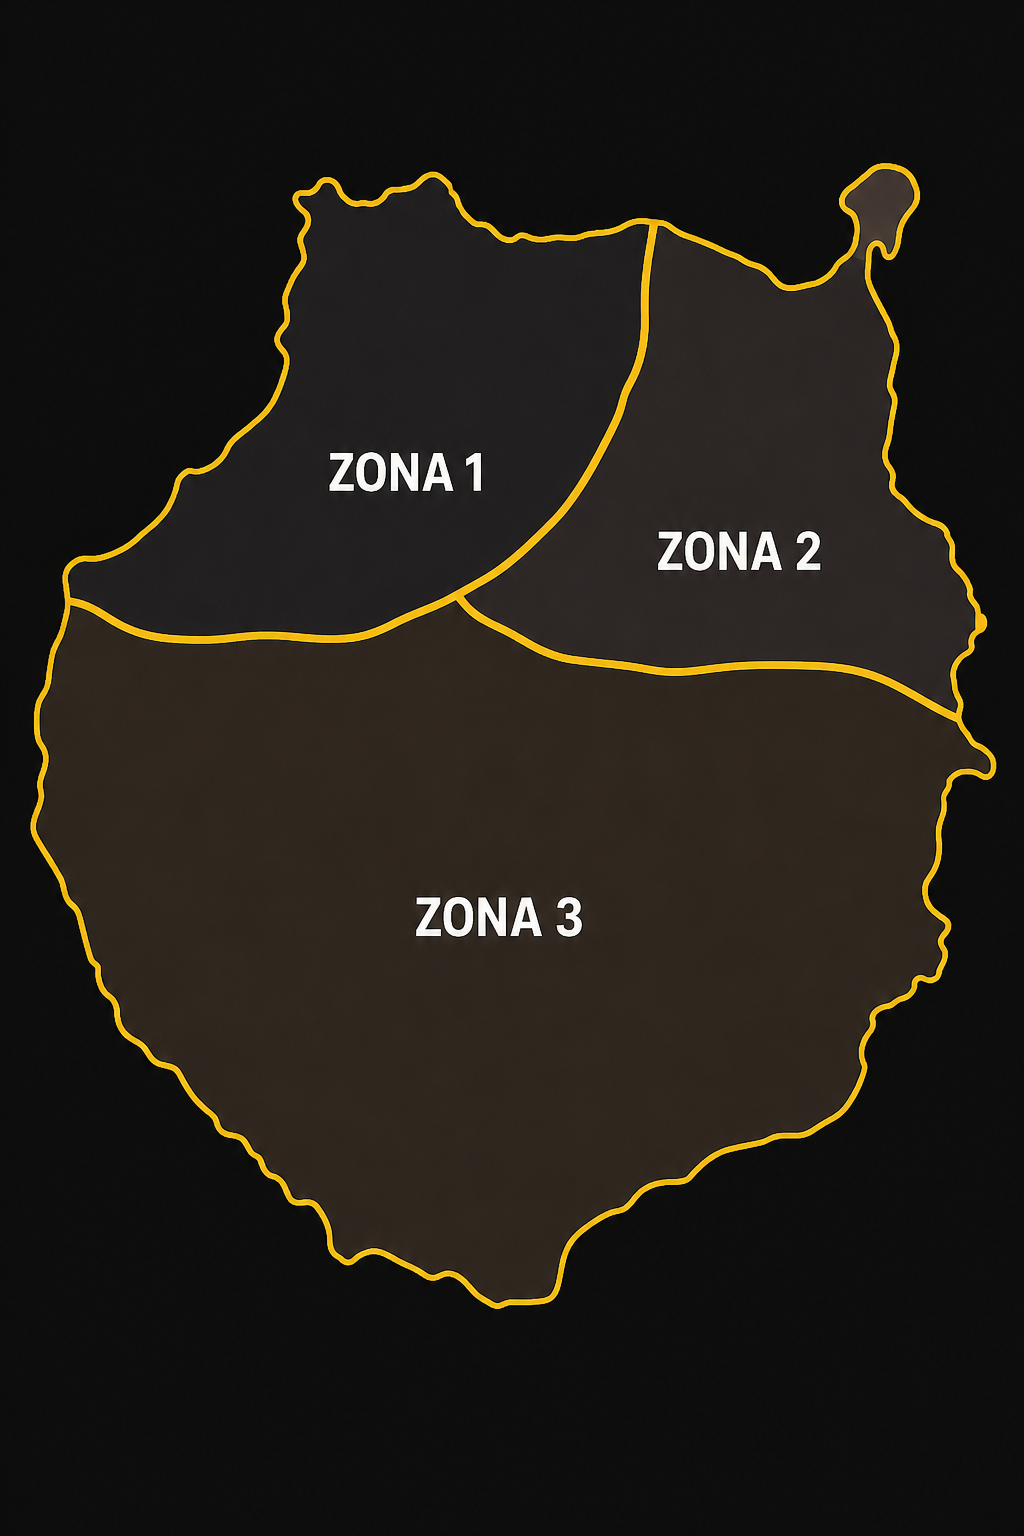
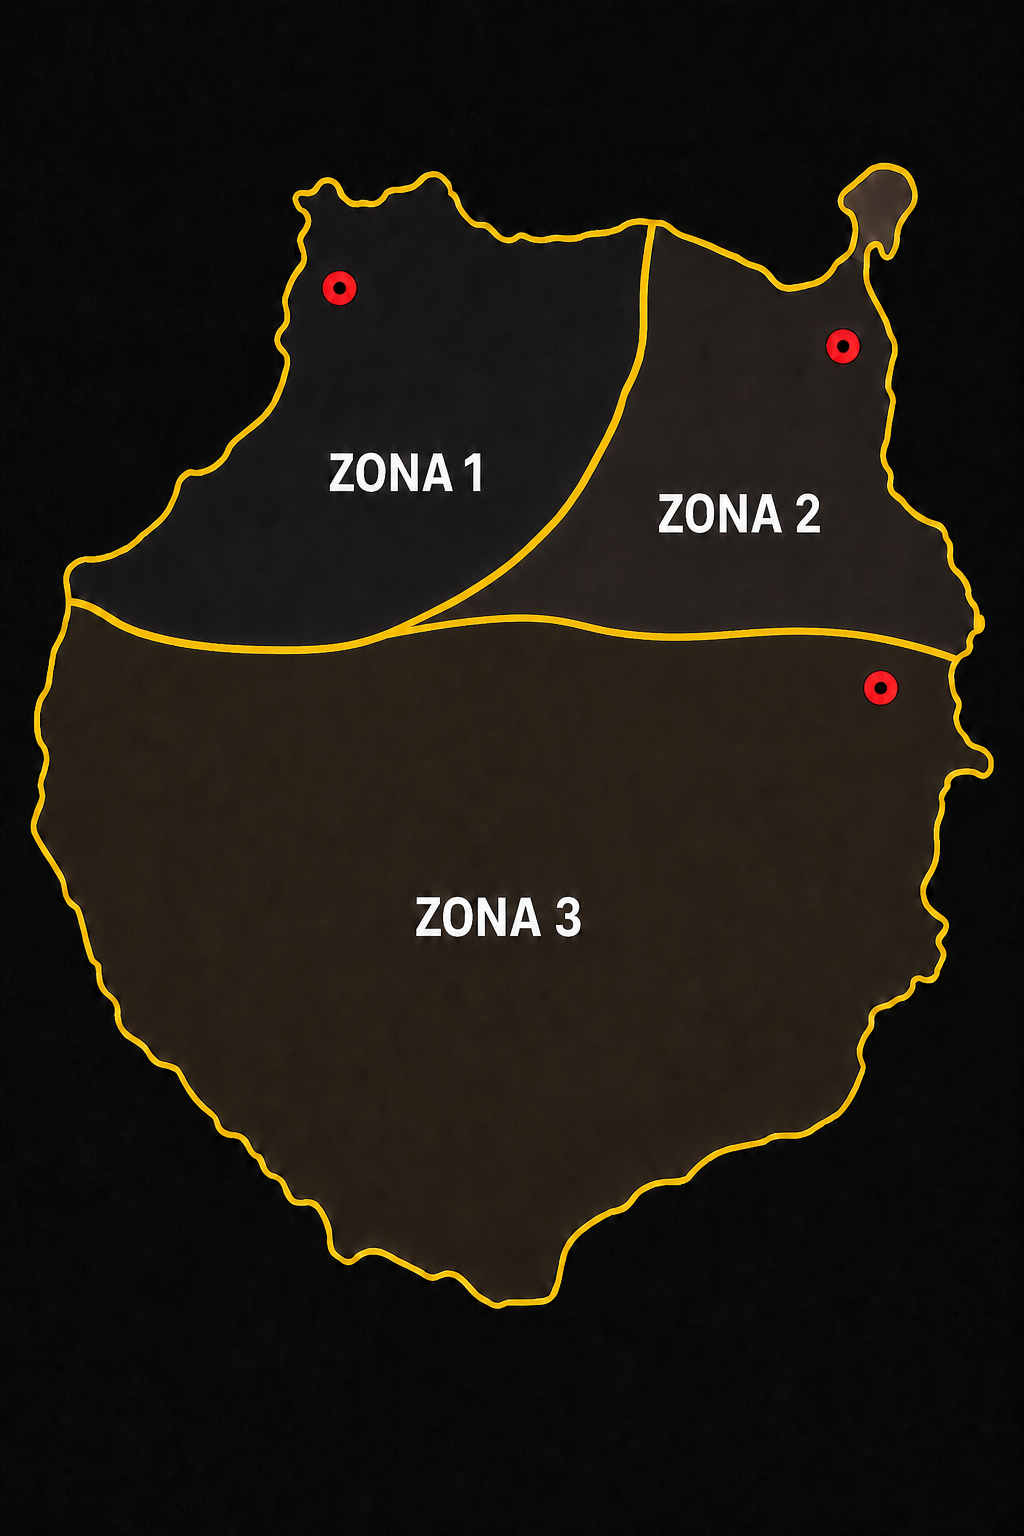
add files

diff --git a/lang/it/configurator.php b/lang/it/configurator.php
@@ -20,7 +20,9 @@ return [
         'postal_code' => 'CAP',
     ],
     'vehicle' => [
-        'missing_model' => 'Non trovi il tuo modello? Scrivici',
+        'missing' => 'Non incontri marca, anno o modello? Scrivici e te lo troviamo subito!',
+        'missing_model' => 'Non trovi il tuo modello? Scrivici e lo cercheremo per te.',
+        'missing_year' => 'Non trovi l\'anno della tua auto? Scrivici e lo cercheremo per te.',
         'image_unavailable' => 'Immagine non disponibile',
         'zoom' => 'Ingrandisci immagine veicolo',
         'all_years' => 'Tutti gli anni',
@@ -50,6 +52,8 @@ return [
     ],
     'installation' => [
         'intro' => 'Prima di confermare la compatibilità, ogni cliente deve completare un precheck dei connettori del veicolo.',
+        'external_intro' => 'Verifica la disponibilità per installare uno schermo acquistato da un altro venditore.',
+        'no_precheck_intro' => 'Verifica la disponibilità dell’installazione per i prodotti selezionati.',
         'question' => 'Qual è il tuo CAP?',
         'postal_placeholder' => 'Inserisci CAP',
         'check' => 'Verifica disponibilità',
@@ -57,7 +61,9 @@ return [
         'gran_canaria_only' => 'Per ora il precheck in presenza è disponibile solo a Gran Canaria:',
         'zone_step' => 'Passo 1 · Zona',
         'zone_question' => 'Quale zona preferisci?',
-        'zone_help' => 'Scegli la zona di riferimento sia per il precheck sia per l’installazione successiva. Il nome dell’officina non viene ancora mostrato.',
+        'zone_help' => 'Scegli la zona di riferimento sia per il precheck sia per l\'installazione successiva. Il nome dell\'officina non viene ancora mostrato.',
+        'external_zone_help' => 'Scegli la zona in cui desideri installare lo schermo. Il nome dell\'officina non viene ancora mostrato.',
+        'no_precheck_zone_help' => 'Scegli la zona in cui desideri effettuare l\'installazione. Il nome dell\'officina non viene ancora mostrato.',
         'map_label' => 'Mappa interattiva delle zone di servizio di Gran Canaria',
         'zone_north' => 'Zona nord · Gáldar e dintorni',
         'zone_capital' => 'Zona nord-est · Las Palmas e dintorni',
@@ -69,18 +75,23 @@ return [
         'precheck_question' => 'Come preferisci fare il precheck?',
         'precheck_help' => 'Dobbiamo verificare i connettori prima di spedire lo schermo, così da garantirne la compatibilità.',
         'precheck_self_title' => 'Smonto lo schermo e invio le foto',
-        'precheck_self_description' => 'Rimuovi lo schermo attuale e scatta foto nitide di tutti i connettori. Ti indicheremo come inviarle.',
+        'precheck_self_description' => 'Rimuovi lo schermo attuale e scatta foto nitide di tutti i connettori. Inviale via email a info@autoradiocanario.com oppure tramite WhatsApp al +34 694 259 117.',
         'precheck_installer_title' => 'Precheck con un installatore',
         'precheck_installer_description' => 'Un professionista smonterà lo schermo e controllerà i connettori nella zona scelta.',
         'remote_only_description' => 'Fuori da Gran Canaria puoi completare il precheck smontando lo schermo attuale e inviandoci foto nitide di tutti i connettori.',
         'choose_remote_precheck' => 'Scegli il precheck con foto',
         'free' => 'Gratuito',
-        'final_installation' => 'Installazione dopo l’arrivo dello schermo',
-        'final_installation_help' => 'Puoi aggiungere ora l’installazione professionale. Il prezzo dipende dai prodotti selezionati.',
-        'contact_for_combination' => 'Non è disponibile una tariffa automatica per questa combinazione. Contattaci per organizzare l’installazione.',
+        'final_installation' => 'Passo 3 · Installazione dopo l\'arrivo dello schermo',
+        'final_installation_help' => 'Puoi aggiungere ora l\'installazione professionale. Il prezzo dipende dai prodotti selezionati.',
+        'external_installation' => 'Passo 2 · Installazione di uno schermo acquistato da un altro venditore',
+        'external_installation_help' => 'Seleziona il servizio di installazione disponibile nella zona scelta.',
+        'no_precheck_installation' => 'Passo 2 · Installazione',
+        'contact_for_combination' => 'Non è disponibile una tariffa automatica per questa combinazione. Contattaci per organizzare l\'installazione.',
+        'unavailable' => 'Installazione non disponibile.',
+        'request_details' => 'Richiedi maggiori informazioni:',
         'available_zone' => 'Installazione disponibile nella zona :zone.',
         'available' => 'Installazione disponibile:',
-        'possibly_unavailable' => 'L’installazione potrebbe non essere disponibile:',
+        'possibly_unavailable' => 'L\'installazione potrebbe non essere disponibile:',
         'contact_details' => 'consultaci per i dettagli',
         'select_product' => 'Seleziona almeno un prodotto per visualizzare il servizio di installazione corrispondente.',
         'check_to_view' => 'Verifica il CAP per visualizzare i servizi disponibili nella tua zona.',
@@ -132,7 +143,7 @@ return [
         'screen' => 'Schermo autoradio',
         'variant' => 'Variante: :variant',
         'online_discount' => 'Sconto per acquisto online (:percentage%)',
-        'legal' => 'Questo preventivo include i prodotti e i servizi indicati e l’assistenza prima e dopo la vendita. Gli importi includono IGIC quando applicabile. Non sono inclusi costi nascosti o pagamenti aggiuntivi non specificati.',
+        'legal' => 'Questo preventivo include i prodotti e i servizi indicati e l\'assistenza prima e dopo la vendita. Gli importi includono IGIC quando applicabile. Non sono inclusi costi nascosti o pagamenti aggiuntivi non specificati.',
     ],
     'errors' => [
         'postal_invalid' => 'Inserisci un CAP valido di 5 cifre.',

diff --git a/lang/es/configurator.php b/lang/es/configurator.php
@@ -20,7 +20,9 @@ return [
         'postal_code' => 'Código postal',
     ],
     'vehicle' => [
-        'missing_model' => '¿No encuentras tu modelo? Escríbenos',
+        'missing' => '¿No encuentras tu marca, año o modelo? Escríbenos y te lo buscamos.',
+        'missing_model' => '¿No encuentras tu modelo? Escríbenos y te la buscamos.',
+        'missing_year' => '¿No encuentras el año de tu coche? Escríbenos y te lo buscamos.',
         'image_unavailable' => 'Imagen no disponible',
         'zoom' => 'Ampliar imagen del vehículo',
         'all_years' => 'Todos los años',
@@ -50,6 +52,8 @@ return [
     ],
     'installation' => [
         'intro' => 'Antes de confirmar la compatibilidad, todos los clientes deben completar un precheck de los conectores del vehículo.',
+        'external_intro' => 'Comprueba la disponibilidad para instalar una pantalla comprada a otro vendedor.',
+        'no_precheck_intro' => 'Comprueba la disponibilidad de instalación para los productos seleccionados.',
         'question' => '¿Cuál es tu código postal?',
         'postal_placeholder' => 'Introduce el código postal',
         'check' => 'Comprobar disponibilidad',
@@ -58,6 +62,8 @@ return [
         'zone_step' => 'Paso 1 · Zona',
         'zone_question' => '¿Qué zona prefieres?',
         'zone_help' => 'Elige la zona de referencia para el precheck y para la instalación posterior. No mostraremos el nombre del taller todavía.',
+        'external_zone_help' => 'Elige la zona donde quieres instalar la pantalla. No mostraremos el nombre del taller todavía.',
+        'no_precheck_zone_help' => 'Elige la zona donde quieres realizar la instalación. No mostraremos el nombre del taller todavía.',
         'map_label' => 'Mapa interactivo de las zonas de servicio de Gran Canaria',
         'zone_north' => 'Zona norte · Gáldar y alrededores',
         'zone_capital' => 'Zona noreste · Las Palmas y alrededores',
@@ -69,15 +75,20 @@ return [
         'precheck_question' => '¿Cómo prefieres hacer el precheck?',
         'precheck_help' => 'Necesitamos comprobar los conectores antes de enviar la pantalla para asegurar su compatibilidad.',
         'precheck_self_title' => 'Desmontaré la pantalla y enviaré fotos',
-        'precheck_self_description' => 'Retira la pantalla actual y haz fotos claras de todos los conectores. Te indicaremos cómo enviarlas.',
+        'precheck_self_description' => 'Retira la pantalla actual y haz fotos claras de todos los conectores. Envíalas por email a info@autoradiocanario.com o por WhatsApp al +34 694 259 117.',
         'precheck_installer_title' => 'Precheck con un instalador',
         'precheck_installer_description' => 'Un profesional desmontará la pantalla y comprobará los conectores en la zona elegida.',
         'remote_only_description' => 'Fuera de Gran Canaria puedes completar el precheck desmontando la pantalla actual y enviándonos fotos claras de todos los conectores.',
         'choose_remote_precheck' => 'Elegir precheck con fotos',
         'free' => 'Sin coste',
-        'final_installation' => 'Instalación después de recibir la pantalla',
+        'final_installation' => 'Paso 3 · Instalación después de recibir la pantalla',
         'final_installation_help' => 'Puedes añadir ahora la instalación profesional. El precio depende de los productos elegidos.',
+        'external_installation' => 'Paso 2 · Instalación de una pantalla comprada a otro vendedor',
+        'external_installation_help' => 'Selecciona el servicio de instalación disponible en la zona elegida.',
+        'no_precheck_installation' => 'Paso 2 · Instalación',
         'contact_for_combination' => 'No hay una tarifa automática para esta combinación. Consúltanos para preparar la instalación.',
+        'unavailable' => 'Instalación no disponible.',
+        'request_details' => 'Solicita más información:',
         'available_zone' => 'Instalación disponible en la zona :zone.',
         'available' => 'Instalación disponible:',
         'possibly_unavailable' => 'La instalación podría no estar disponible:',

diff --git a/lang/en/configurator.php b/lang/en/configurator.php
@@ -20,7 +20,8 @@ return [
         'postal_code' => 'Postcode',
     ],
     'vehicle' => [
-        'missing_model' => 'Can’t find your model? Contact us',
+        'missing_model' => 'Can’t find your model? Contact us and we’ll find it for you.',
+        'missing_year' => 'Can’t find your car’s year? Contact us and we’ll find it for you.',
         'image_unavailable' => 'Image unavailable',
         'zoom' => 'Enlarge vehicle image',
         'all_years' => 'All years',
@@ -50,6 +51,8 @@ return [
     ],
     'installation' => [
         'intro' => 'Before compatibility can be confirmed, every customer must complete a precheck of the vehicle connectors.',
+        'external_intro' => 'Check availability to install a screen purchased from another seller.',
+        'no_precheck_intro' => 'Check installation availability for the selected products.',
         'question' => 'What is your postcode?',
         'postal_placeholder' => 'Enter postcode',
         'check' => 'Check availability',
@@ -58,6 +61,8 @@ return [
         'zone_step' => 'Step 1 · Area',
         'zone_question' => 'Which area do you prefer?',
         'zone_help' => 'Choose the reference area for both the precheck and the later installation. The workshop name is not shown yet.',
+        'external_zone_help' => 'Choose the area where you want the screen installed. The workshop name is not shown yet.',
+        'no_precheck_zone_help' => 'Choose the area where you want the installation performed. The workshop name is not shown yet.',
         'map_label' => 'Interactive map of Gran Canaria service areas',
         'zone_north' => 'North area · Gáldar and surroundings',
         'zone_capital' => 'North-east area · Las Palmas and surroundings',
@@ -69,15 +74,20 @@ return [
         'precheck_question' => 'How would you like to complete the precheck?',
         'precheck_help' => 'We need to verify the connectors before shipping the screen to ensure compatibility.',
         'precheck_self_title' => 'I will remove the screen and send photos',
-        'precheck_self_description' => 'Remove the current screen and take clear photos of every connector. We will explain how to send them.',
+        'precheck_self_description' => 'Remove the current screen and take clear photos of every connector. Send them by email to info@autoradiocanario.com or via WhatsApp to +34 694 259 117.',
         'precheck_installer_title' => 'Precheck with an installer',
         'precheck_installer_description' => 'A professional will remove the screen and check the connectors in your chosen area.',
         'remote_only_description' => 'Outside Gran Canaria, you can complete the precheck by removing the current screen and sending us clear photos of every connector.',
         'choose_remote_precheck' => 'Choose photo precheck',
         'free' => 'Free',
-        'final_installation' => 'Installation after the screen arrives',
+        'final_installation' => 'Step 3 · Installation after the screen arrives',
         'final_installation_help' => 'You can add professional installation now. Its price depends on the selected products.',
+        'external_installation' => 'Step 2 · Installation of a screen purchased from another seller',
+        'external_installation_help' => 'Select the installation service available in your chosen area.',
+        'no_precheck_installation' => 'Step 2 · Installation',
         'contact_for_combination' => 'There is no automatic rate for this combination. Contact us to arrange the installation.',
+        'unavailable' => 'Installation unavailable.',
+        'request_details' => 'Request more information:',
         'available_zone' => 'Installation is available in the :zone area.',
         'available' => 'Installation available:',
         'possibly_unavailable' => 'Installation may not be available:',
